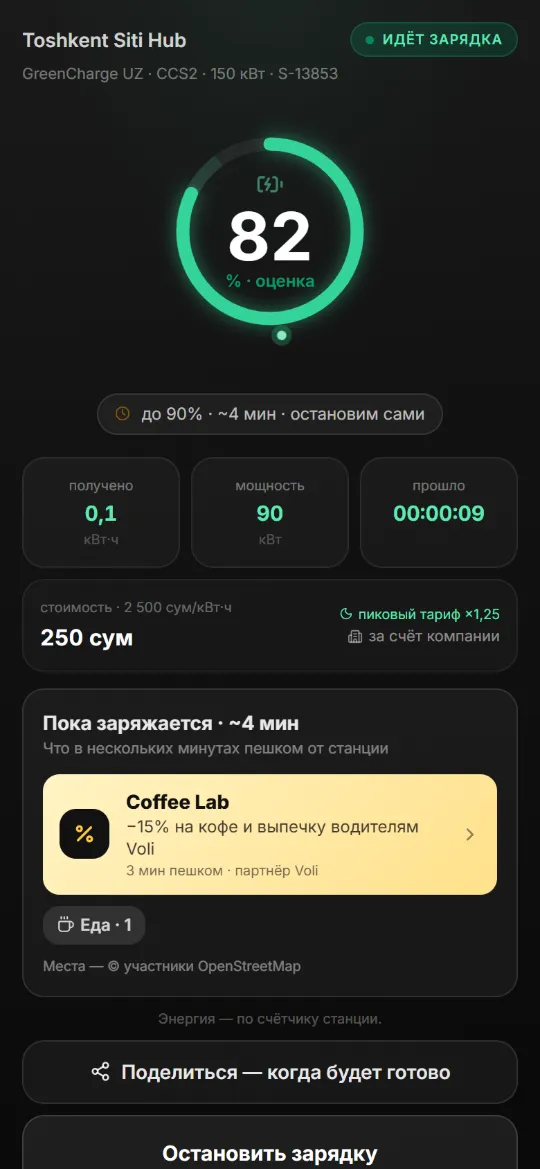
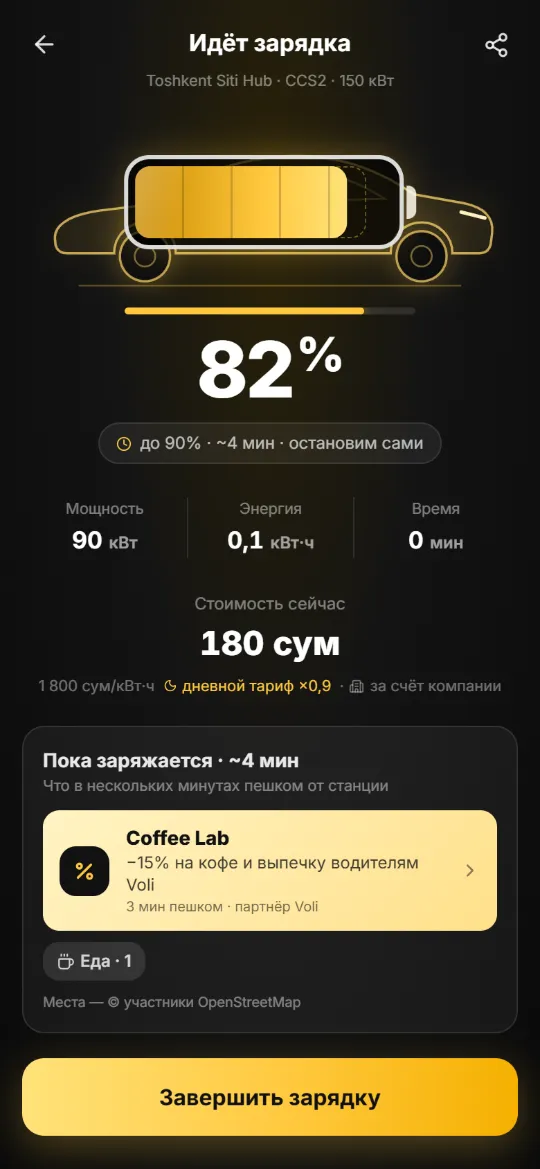
Landing guide on the new screens; the receipt in black and yellow
The 'Обучение' screenshots are taken again from the app as it is now, in
Russian, Uzbek and English: the code sign-in, the new charging screen and
the receipt. Step one says sign-in is by a code to the phone or the email,
no password. The receipt's header turns from green to our black with a
yellow tick, and the share preview image shows the new logo.

diff --git a/src/landing/content.ts b/src/landing/content.ts
@@ -164,7 +164,7 @@ const ru = {
     alt: 'Экран приложения Voli',
     note: 'Снимки сделаны в демо-версии приложения.',
     steps: [
-      { id: '1-signin', t: 'Зарегистрируйтесь по номеру', d: 'Введите имя и номер телефона и подтвердите его кодом из SMS. Это займёт минуту.' },
+      { id: '1-signin', t: 'Войдите за минуту', d: 'Введите номер телефона или почту — придёт код. Если вы у нас впервые, останется написать имя, и аккаунт готов. Пароль не нужен.' },
       { id: '2-map', t: 'Найдите станцию на карте', d: 'На карте станции всех сетей. Цифра на метке — сколько разъёмов свободно, а быстрые фильтры оставят свободные, со скидкой или открытые сейчас.' },
       { id: '4-qr', t: 'Отсканируйте QR-код', d: 'Нажмите жёлтую кнопку в центре и наведите камеру на код станции. Приложение покажет свободные разъёмы и цену — останется нажать «Начать зарядку».' },
       { id: '5-charging', t: 'Следите за зарядкой', d: 'Процент, мощность, энергия и сумма обновляются вживую. Ниже — кафе и предложения партнёров рядом, а ход зарядки виден и на экране блокировки.' },
@@ -549,7 +549,7 @@ const uz: LandingCopy = {
     alt: 'Voli ilovasi ekrani',
     note: 'Suratlar ilovaning demo versiyasida olingan.',
     steps: [
-      { id: '1-signin', t: 'Raqamingiz bilan ro‘yxatdan o‘ting', d: 'Ism va telefon raqamingizni kiriting va uni SMS kod bilan tasdiqlang. Bir daqiqa vaqt oladi.' },
+      { id: '1-signin', t: 'Bir daqiqada kiring', d: 'Telefon raqamingiz yoki pochtangizni kiriting — kod keladi. Birinchi marta bo‘lsangiz, ismingizni yozing va akkaunt tayyor. Parol kerak emas.' },
       { id: '2-map', t: 'Xaritada stansiyani toping', d: 'Xaritada barcha tarmoqlar stansiyalari. Belgidagi raqam — nechta ulagich bo‘shligi, tezkor filtrlar esa bo‘sh, chegirmali yoki hozir ochiq stansiyalarni qoldiradi.' },
       { id: '4-qr', t: 'QR kodni skanerlang', d: 'O‘rtadagi sariq tugmani bosing va kamerani stansiya kodiga tuting. Ilova bo‘sh ulagichlar va narxni ko‘rsatadi — «Zaryadlashni boshlash»ni bosish qoladi.' },
       { id: '5-charging', t: 'Zaryadlashni kuzating', d: 'Foiz, quvvat, energiya va summa jonli yangilanadi. Pastda — yaqin atrofdagi kafe va hamkorlar takliflari, zaryadlash jarayoni esa qulf ekranida ham ko‘rinadi.' },
@@ -932,7 +932,7 @@ const en: LandingCopy = {
     alt: 'Voli app screen',
     note: 'Screenshots taken in the demo version of the app.',
     steps: [
-      { id: '1-signin', t: 'Sign up with your number', d: 'Enter your name and phone number and confirm it with the code from a text message. It takes a minute.' },
+      { id: '1-signin', t: 'Sign in in a minute', d: 'Enter your phone number or email and a code arrives. New here? Add your name and the account is ready. No password needed.' },
       { id: '2-map', t: 'Find a charger on the map', d: 'The map shows chargers from every network. The number on a pin is how many connectors are free, and quick filters keep only free ones, deals or chargers open now.' },
       { id: '4-qr', t: 'Scan the QR code', d: 'Tap the yellow button in the middle and point your camera at the charger’s code. The app shows free connectors and the price — then just tap Start charging.' },
       { id: '5-charging', t: 'Watch your charge', d: 'Percentage, power, energy and cost update live. Below are cafés and partner offers nearby, and the progress also shows on your lock screen.' },

diff --git a/src/components/driver/Charging.tsx b/src/components/driver/Charging.tsx
@@ -269,23 +269,23 @@ export function ChargingDoneScreen({ session, onClose }: { session: Session | nu
 
   return (
     <div className="h-full flex flex-col bg-slate-50">
-      <div className="bg-gradient-to-b from-emerald-500 to-emerald-600 px-4 pt-6 pb-6 text-white text-center">
-        <div className="w-14 h-14 bg-white/20 rounded-full flex items-center justify-center mx-auto mb-3 pg-pop"><CheckCircle size={30} /></div>
+      <div className="px-4 pt-6 pb-6 text-white text-center" style={{ background: 'radial-gradient(ellipse at 50% 0%, #2a2208 0%, #141414 60%, #0a0a0a 100%)' }}>
+        <div className="w-14 h-14 bg-[#FFC83D] text-[#111] rounded-full flex items-center justify-center mx-auto mb-3 pg-pop" style={{ boxShadow: '0 0 28px rgba(255,200,61,.45)' }}><CheckCircle size={30} /></div>
         <h2 className="text-xl font-bold">Зарядка завершена</h2>
-        <p className="text-emerald-100 text-sm mt-0.5">{session.stationName}</p>
+        <p className="text-white/60 text-sm mt-0.5">{session.stationName}</p>
         <div className="grid grid-cols-3 gap-2 mt-5">
           {[
             { value: String(session.energy), unit: ' кВт·ч', label: 'заряжено' },
             { value: Math.round(session.cost).toLocaleString('ru-RU'), unit: ' сум', label: 'списано' },
             { value: String(minutes), unit: ' мин', label: 'время' },
           ].map(s => (
-            <div key={s.label} className="bg-white/15 rounded-2xl py-2">
+            <div key={s.label} className="bg-white/[0.07] border border-white/10 rounded-2xl py-2">
               <p className="text-lg font-bold tabular-nums">{s.value}<span className="text-xs font-normal">{s.unit}</span></p>
-              <p className="text-emerald-100 text-xs">{s.label}</p>
+              <p className="text-white/50 text-xs">{s.label}</p>
             </div>
           ))}
         </div>
-        <p className="text-emerald-100 text-xs mt-3">{`≈ +${Math.round(session.energy / 0.18)} км запаса хода`}</p>
+        <p className="text-[#FFC83D] text-xs mt-3">{`≈ +${Math.round(session.energy / 0.18)} км запаса хода`}</p>
       </div>
 
       <div className="flex-1 overflow-y-auto px-4 py-4 space-y-3">
@@ -306,14 +306,14 @@ export function ChargingDoneScreen({ session, onClose }: { session: Session | nu
             ))}
             <div className="flex justify-between items-center border-t border-dashed border-slate-200 pt-2 mt-1">
               <span className="text-sm font-bold text-slate-900">Итого</span>
-              <span className="text-base font-bold text-sky-600 tabular-nums">{sum(session.cost)}</span>
+              <span className="text-base font-extrabold text-slate-900 tabular-nums">{sum(session.cost)}</span>
             </div>
           </div>
         </div>
 
         <div className="bg-white rounded-2xl border border-slate-100 p-4 text-center">
           {sent ? (
-            <p className="text-sm font-semibold text-sky-700 pg-reveal">{`Спасибо! Ваша оценка ${stars}/5 учтена в рейтинге станции`}</p>
+            <p className="text-sm font-semibold text-slate-800 pg-reveal">{`Спасибо! Ваша оценка ${stars}/5 учтена в рейтинге станции`}</p>
           ) : (
             <>
               <p className="text-sm font-semibold text-slate-700 mb-2">Оцените станцию</p>
@@ -335,7 +335,7 @@ export function ChargingDoneScreen({ session, onClose }: { session: Session | nu
         >
           <Download size={14} />Чек PDF
         </button>
-        <button onClick={onClose} className="bg-sky-500 text-white rounded-2xl py-3 font-semibold text-sm">Готово</button>
+        <button onClick={onClose} className="text-[#111] rounded-2xl py-3 font-bold text-sm" style={{ background: 'linear-gradient(90deg, #FFE27A, #FFC83D 55%, #F5B000)' }}>Готово</button>
       </div>
     </div>
   );

diff --git a/src/landing/Logo.tsx b/src/landing/Logo.tsx
@@ -62,7 +62,7 @@ export function LogoMark({ size = 32 }: { size?: number; id?: string }) {
 }
 
 /** The wordmark «Voli»: `size` is its height; `ink` its letters (white on dark). */
-export function Logo({ size = 30, ink = '#111111' }: { size?: number; ink?: string }) {
+export function Logo({ size = 36, ink = '#111111' }: { size?: number; ink?: string }) {
   const id = useId().replace(/:/g, '');
   return (
     <span className="lp-logo">
